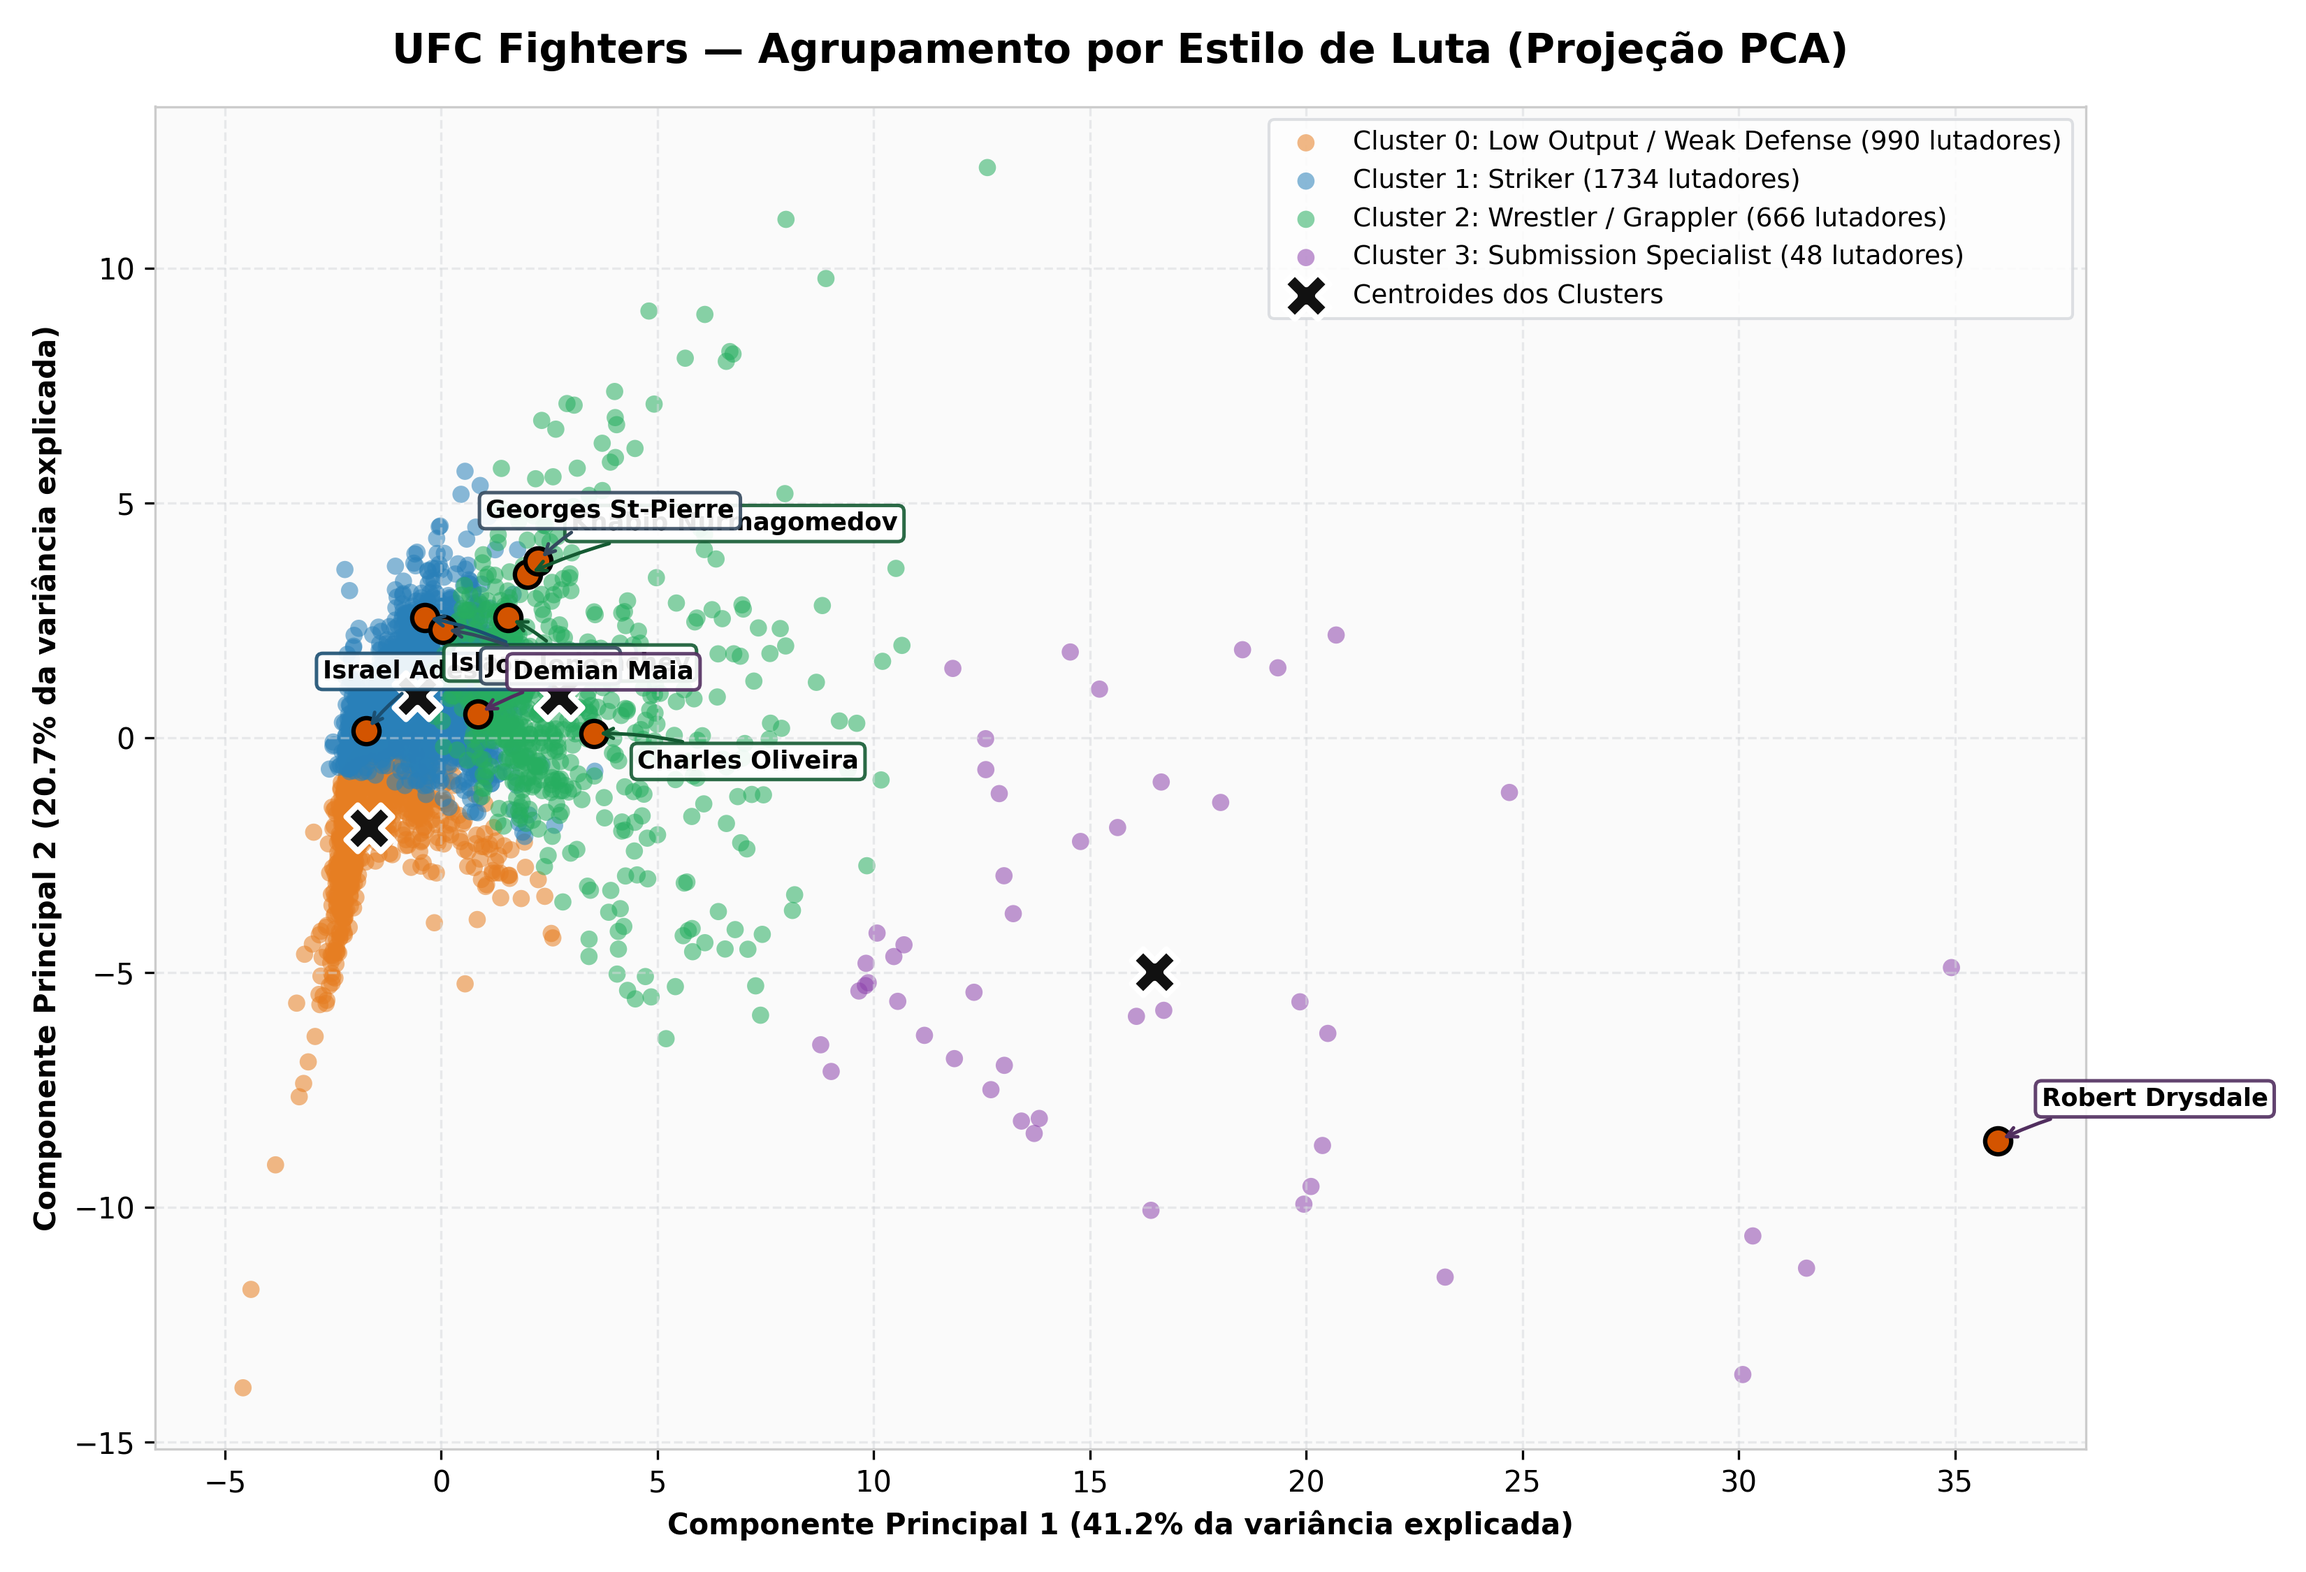
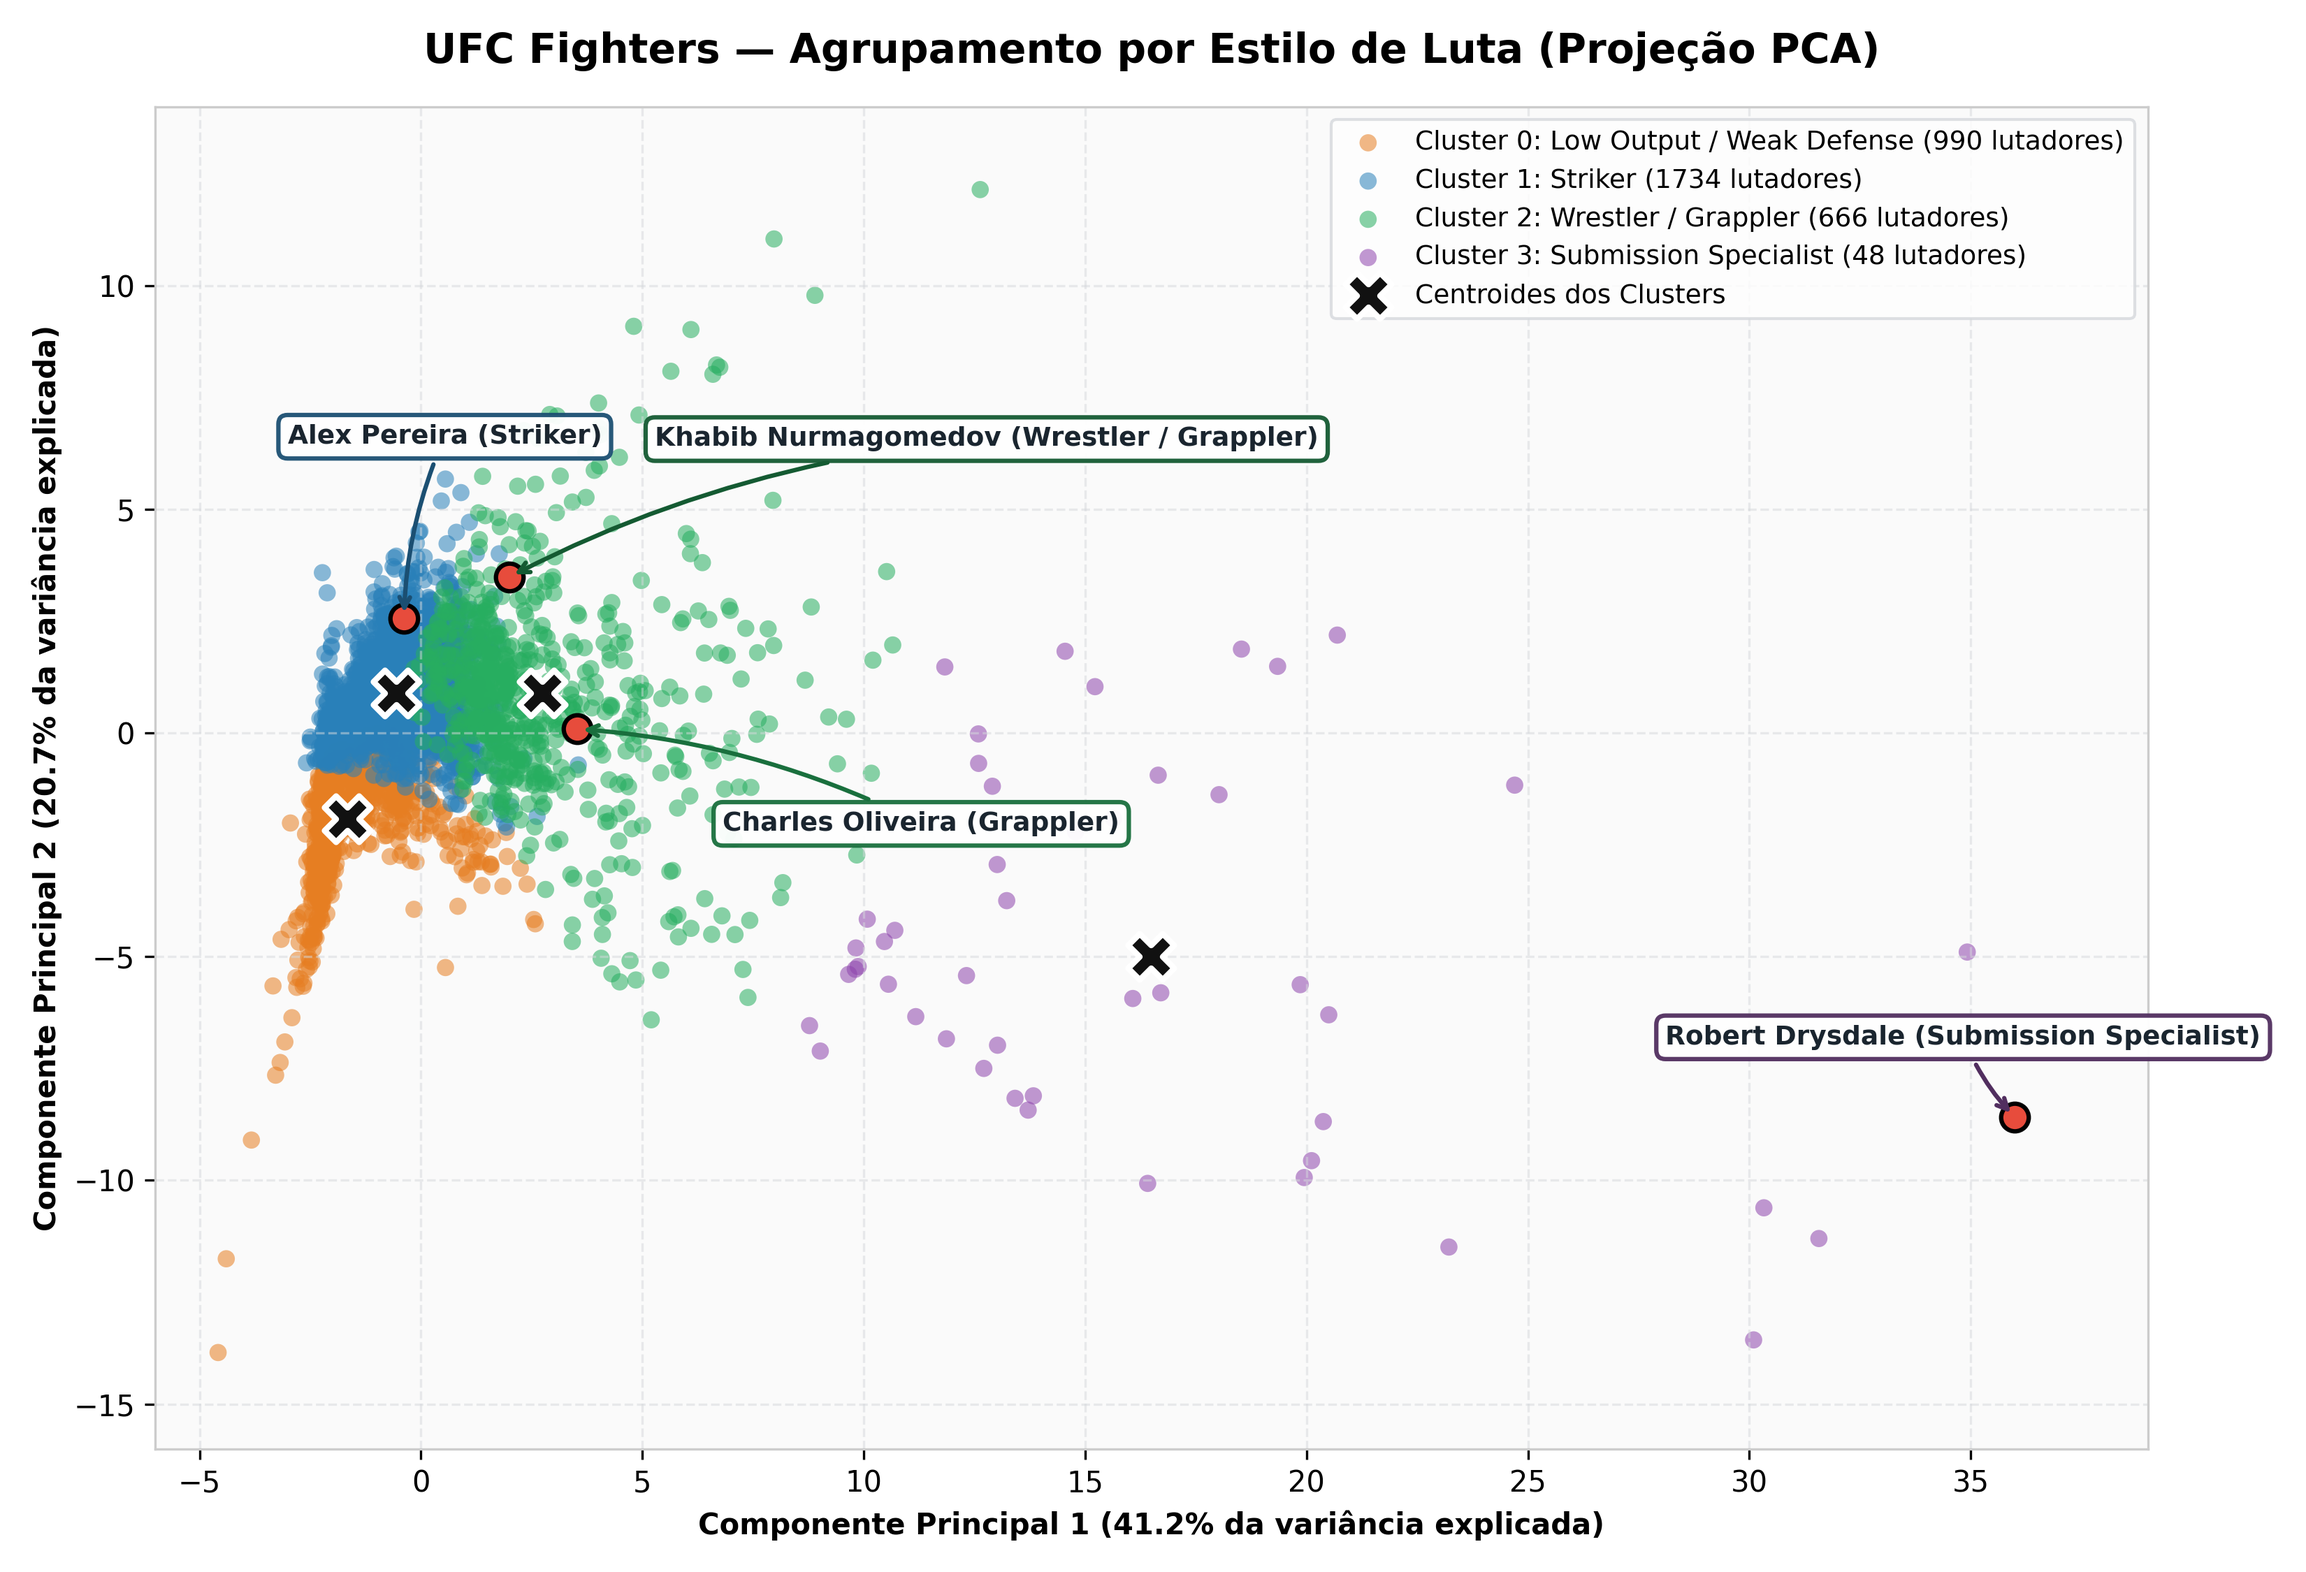
fix(viz): clean up PCA scatter plot annotations to avoid text overlapping

diff --git a/src/generate_readme_images.py b/src/generate_readme_images.py
@@ -78,39 +78,38 @@ ax.scatter(
     zorder=10,
 )
 
-# Anotações de lutadores icônicos
+# Anotações de 4 lutadores icônicos bem distribuídos espacialmente (sem sobreposição)
 highlight_fighters = [
-    ("Alex Pereira", (12, -18), "#1B4F72"),
-    ("Israel Adesanya", (-15, 18), "#1B4F72"),
-    ("Khabib Nurmagomedov", (15, 15), "#145A32"),
-    ("Islam Makhachev", (-20, -18), "#145A32"),
-    ("Robert Drysdale", (15, 12), "#512E5F"),
-    ("Jon Jones", (15, -15), "#34495E"),
-    ("Georges St-Pierre", (-18, 15), "#34495E"),
-    ("Demian Maia", (12, 12), "#512E5F"),
-    ("Charles Oliveira", (15, -12), "#145A32"),
+    ("Alex Pereira", "Alex Pereira (Striker)", (-40, 60), "#1B4F72"),
+    ("Khabib Nurmagomedov", "Khabib Nurmagomedov (Wrestler / Grappler)", (50, 45), "#145A32"),
+    ("Charles Oliveira", "Charles Oliveira (Grappler)", (50, -35), "#196F3D"),
+    ("Robert Drysdale", "Robert Drysdale (Submission Specialist)", (-120, 25), "#512E5F"),
 ]
 
-for name, offset, box_color in highlight_fighters:
-    match = df_features[df_features["name"].str.lower() == name.lower()]
+for query_name, display_label, offset, box_color in highlight_fighters:
+    match = df_features[df_features["name"].str.lower() == query_name.lower()]
     if not match.empty:
         idx = match.index[0]
         pos = df_features.index.get_loc(idx)
         x_val = pc1[pos]
         y_val = pc2[pos]
-        ax.scatter([x_val], [y_val], color="#D35400", s=80, edgecolors="black", linewidths=1.5, zorder=15)
+        ax.scatter([x_val], [y_val], color="#E74C3C", s=90, edgecolors="black", linewidths=1.5, zorder=15)
         ax.annotate(
-            name,
+            display_label,
             (x_val, y_val),
             xytext=offset,
             textcoords="offset points",
-            fontsize=8.5,
+            fontsize=9,
             fontweight="bold",
-            color="black",
-            bbox=dict(boxstyle="round,pad=0.25", fc="white", ec=box_color, alpha=0.9, lw=1.2),
-            arrowprops=dict(arrowstyle="->", connectionstyle="arc3,rad=0.1", color=box_color, lw=1.2),
+            color="#1A252F",
+            bbox=dict(boxstyle="round,pad=0.35", fc="white", ec=box_color, alpha=0.95, lw=1.5),
+            arrowprops=dict(arrowstyle="->", connectionstyle="arc3,rad=0.1", color=box_color, lw=1.5),
             zorder=20,
         )
+
+ax.set_xlim(-6, 39)
+ax.set_ylim(-16, 14)
+
 
 ax.set_title("UFC Fighters — Agrupamento por Estilo de Luta (Projeção PCA)", fontsize=14, fontweight="bold", pad=15)
 ax.set_xlabel(f"Componente Principal 1 ({pca.explained_variance_ratio_[0]*100:.1f}% da variância explicada)", fontsize=10, fontweight="semibold")
